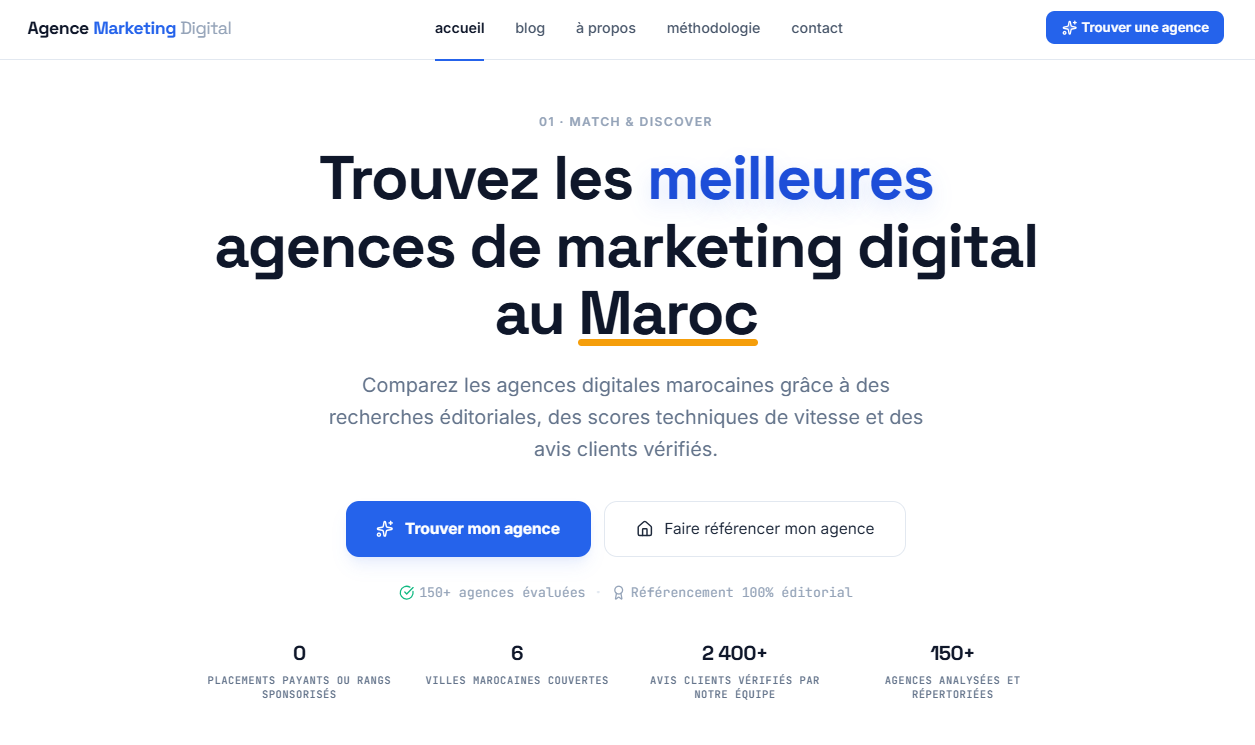
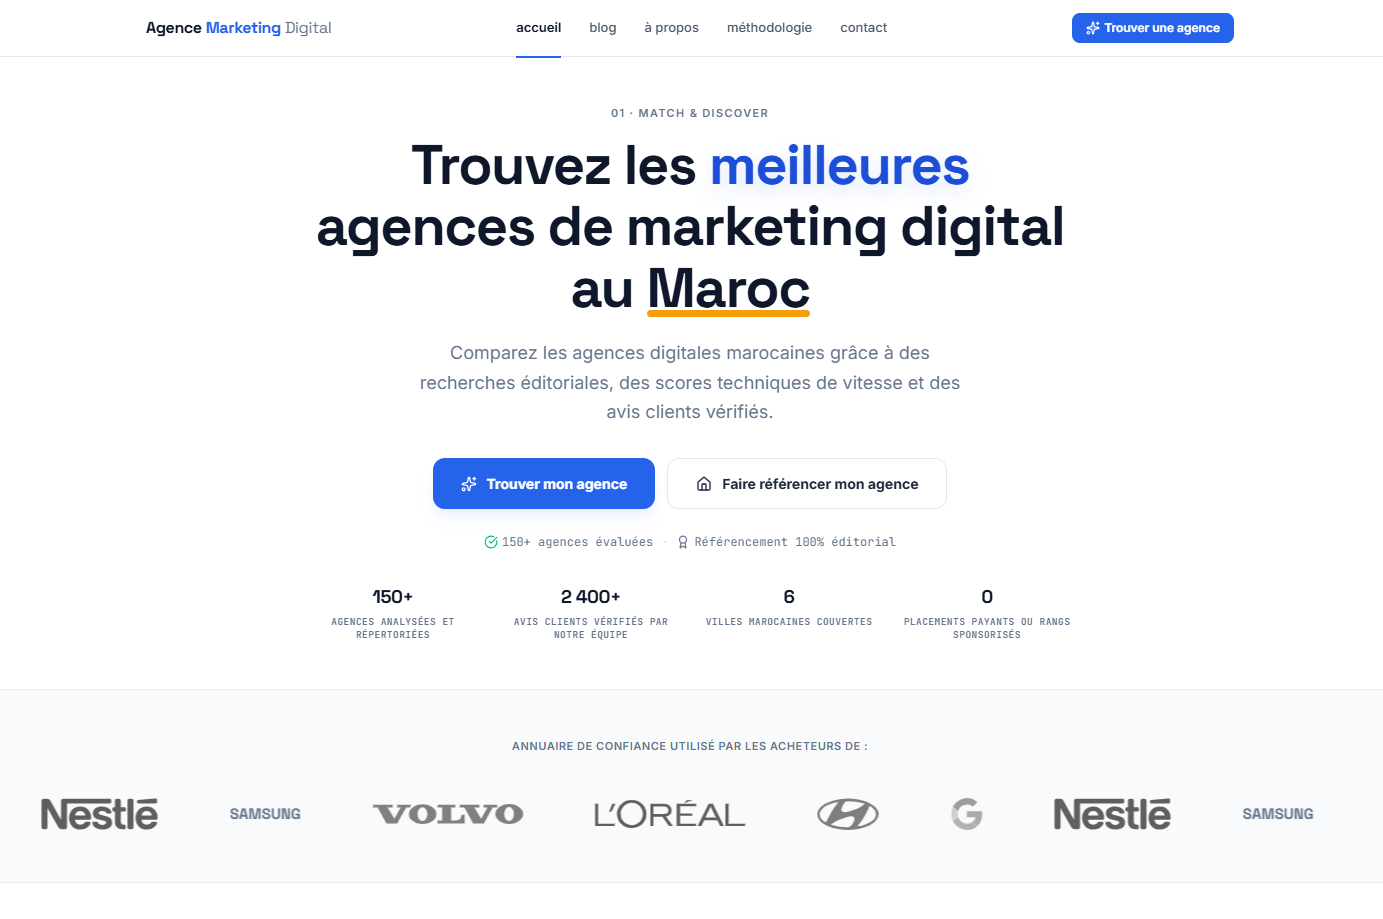
Update author URL and replace screenshots

diff --git a/style.css b/style.css
@@ -3,6 +3,6 @@ Theme Name: Agence Marketing Digital
 Theme URI: https://agence-marketing-digital.local
 Description: Thème WordPress sur mesure pour Agence Marketing Digital — un annuaire éditorial des agences de marketing digital au Maroc. Pages entièrement modulaires grâce à ACF Flexible Content et animations soignées.
 Version: 1.0.0
-Author: <a href="https://ayoub-jlita.vercel.app/">Ayoub</a> &amp; <a href="https://github.com/BENYEKHLEF-Anouar">Anouar</a>
+Author: <a href="https://ayoub-jlita.vercel.app/">Ayoub</a> &amp; <a href="https://anouar-benyekhlef-portfolio.vercel.app/">Anouar</a>
 Text Domain: agence-marketing-digital
 */